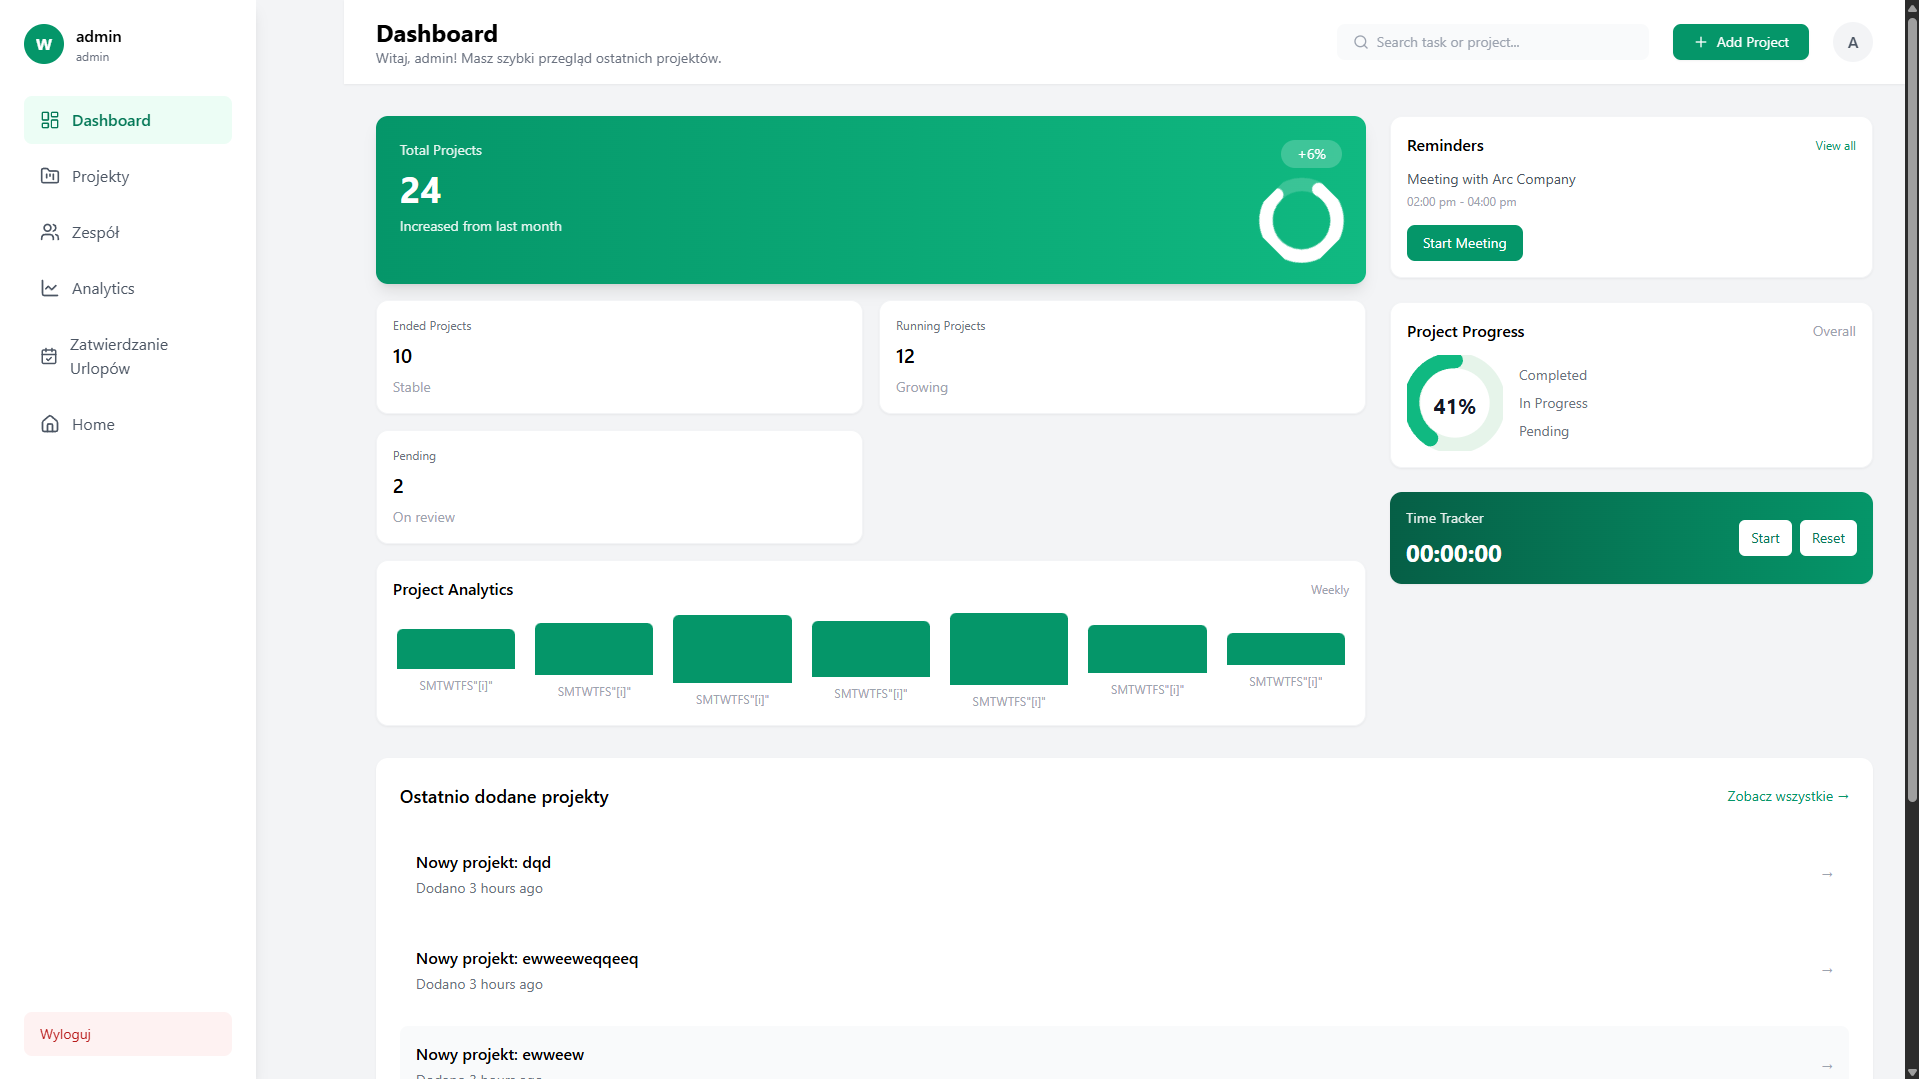
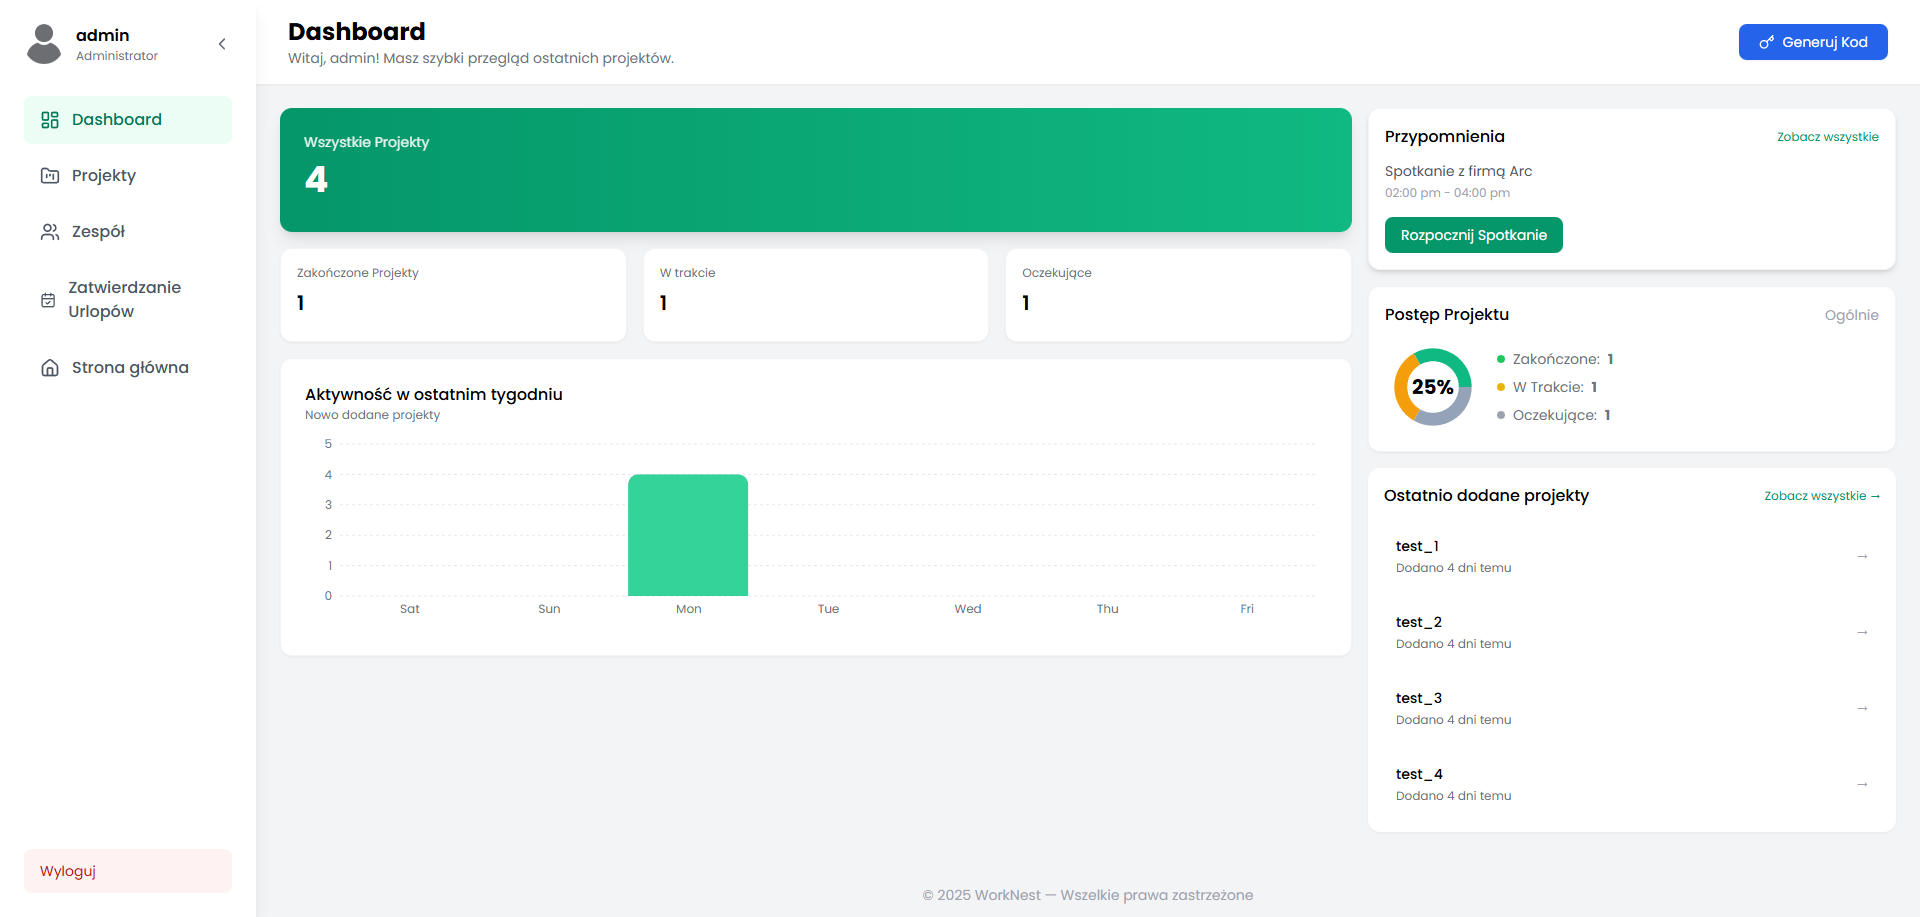
Dodano modal do usuwania zadan

diff --git a/client/src/pages/ProjectDetails.jsx b/client/src/pages/ProjectDetails.jsx
@@ -406,13 +406,21 @@ export default function ProjectDetails() {
     };
 
     const handleDeleteTask = async (taskId) => {
-        try {
-            await api.delete(`/tasks/${taskId}`, { params: { company: currentUser?.company?._id } });
-            fetchTasks();
-            fetchActivities();
-        } catch (err) {
-            showNotification(`Błąd: ${err.message}`, 'error');
-        }
+        askForConfirmation({
+            title: 'Usuwanie Zadania',
+            message: 'Czy na pewno chcesz usunąć to zadanie? Ta operacja jest nieodwracalna.',
+            confirmText: 'Usuń',
+            confirmVariant: 'danger',
+            onConfirm: async () => {
+                try {
+                    await api.delete(`/tasks/${taskId}`, { params: { company: currentUser?.company?._id } });
+                    fetchTasks();
+                    fetchActivities();
+                } catch (err) {
+                    showNotification(`Błąd: ${err.message}`, 'error');
+                }
+            },
+        });
     };
 
     const handleAddComment = async () => {

diff --git a/client/src/components/TaskItem.jsx b/client/src/components/TaskItem.jsx
@@ -243,15 +243,7 @@ const TaskItem = ({ task, onUpdate, onDelete, projectUsers, isAdmin }) => {
                                     <Icon.Edit3 />
                                 </button>
                                 <button
-                                    onClick={() => {
-                                        if (
-                                            window.confirm(
-                                                'Czy na pewno usunąć to zadanie?',
-                                            )
-                                        ) {
-                                            onDelete(task._id);
-                                        }
-                                    }}
+                                    onClick={() => onDelete(task._id)}
                                     className="rounded p-1 text-gray-400 hover:bg-red-100 hover:text-red-600"
                                 >
                                     <Icon.Trash />

diff --git a/client/src/pages/Landing.jsx b/client/src/pages/Landing.jsx
@@ -163,8 +163,12 @@ function Landing() {
                                         </span>
                                         <div className="h-3 w-16 rounded-full bg-emerald-400"></div>
                                     </div>
-                                    <div className="flex aspect-video items-center justify-center rounded-xl border-4 border-emerald-500/20 bg-gray-100">
-                                        <img src={demo} alt="demo photo" />
+                                    <div className="overflow-hidden rounded-xl border-4 border-emerald-500/20 bg-gray-100">
+                                        <img
+                                            src={demo}
+                                            alt="demo photo"
+                                            className="h-auto w-full"
+                                        />
                                     </div>
                                 </div>
                             </div>